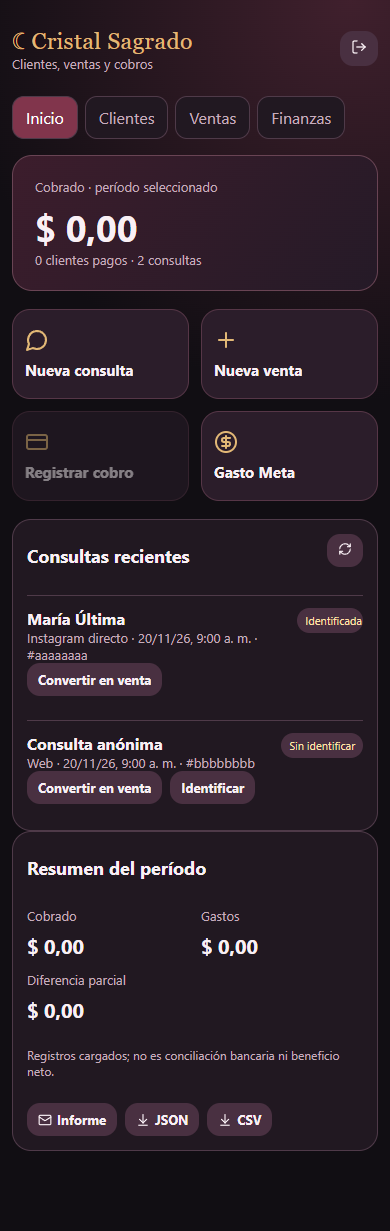
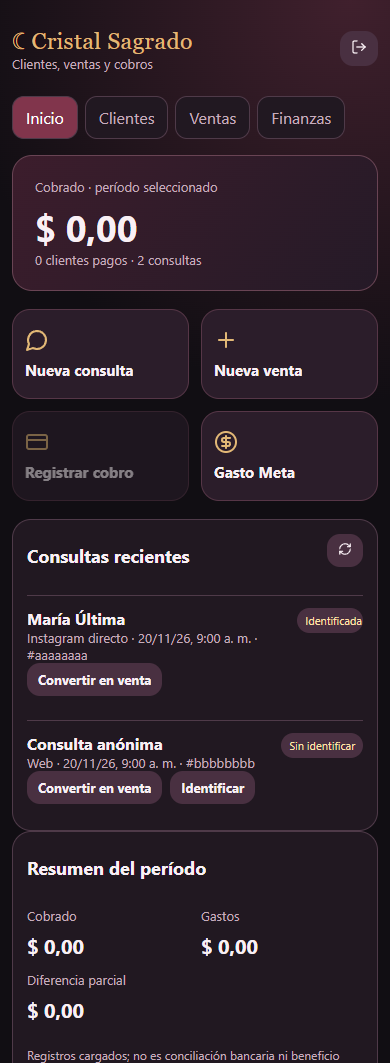
Refresh screenshots and record final Preview E2E

diff --git a/docs/ISSUE_2_PREPROD_2026-11-20.md b/docs/ISSUE_2_PREPROD_2026-11-20.md
@@ -29,6 +29,8 @@ La migración `004` se aplicó **solo** a `preview/feat/neon-migration` (`br-shy
 | Preview autenticado con Magic Link, organización QA | Sesión y membresía QA, persistencia tras recarga, consulta anónima, venta, cobro, campaña y gasto real de período cruzado, exportación JSON, anulación auditada. La primera ejecución de la automatización convirtió por error una consulta ficticia anterior; dejó una venta QA adicional. Las ejecuciones siguientes seleccionaron la consulta anónima correcta. |
 | Autorización y finanzas en Preview | Lectura, exportación y escritura hacia otra organización: 403. Solape de gasto: 409. Exportación con campaña y gasto real de 200 UYU. Gasto anulado: 0 UYU activo. La organización real mantiene 0 contactos, consultas, ventas, cobros, campañas, gastos publicitarios y despachos. |
 
+El Preview del commit `ee220d1` (`dpl_5R9ECTQSShAfGvziqFgok3jFCjB2`) quedó READY. Playwright ejecutó **5/5 E2E** en ese despliegue a 390 px el 20/11; la captura anterior se obtuvo por separado del Preview previo. El endpoint de informe estaba simulado y no se efectuó ningún envío real nuevo.
+
 Las capturas [antes](screenshots/registro-390-antes.png), [inicio](screenshots/registro-390-inicio.png), [venta](screenshots/registro-390-venta.png), [informe](screenshots/registro-390-informe.png) y [publicidad](screenshots/registro-390-publicidad.png) usan **datos ficticios simulados**. La captura anterior procede del Preview del commit previo; las demás, del nuevo Preview. No muestran datos de Lucía ni prueban por sí mismas almacenamiento o entrega de correo.
 
 ### Discrepancia de despachos QA que debe conciliarse
